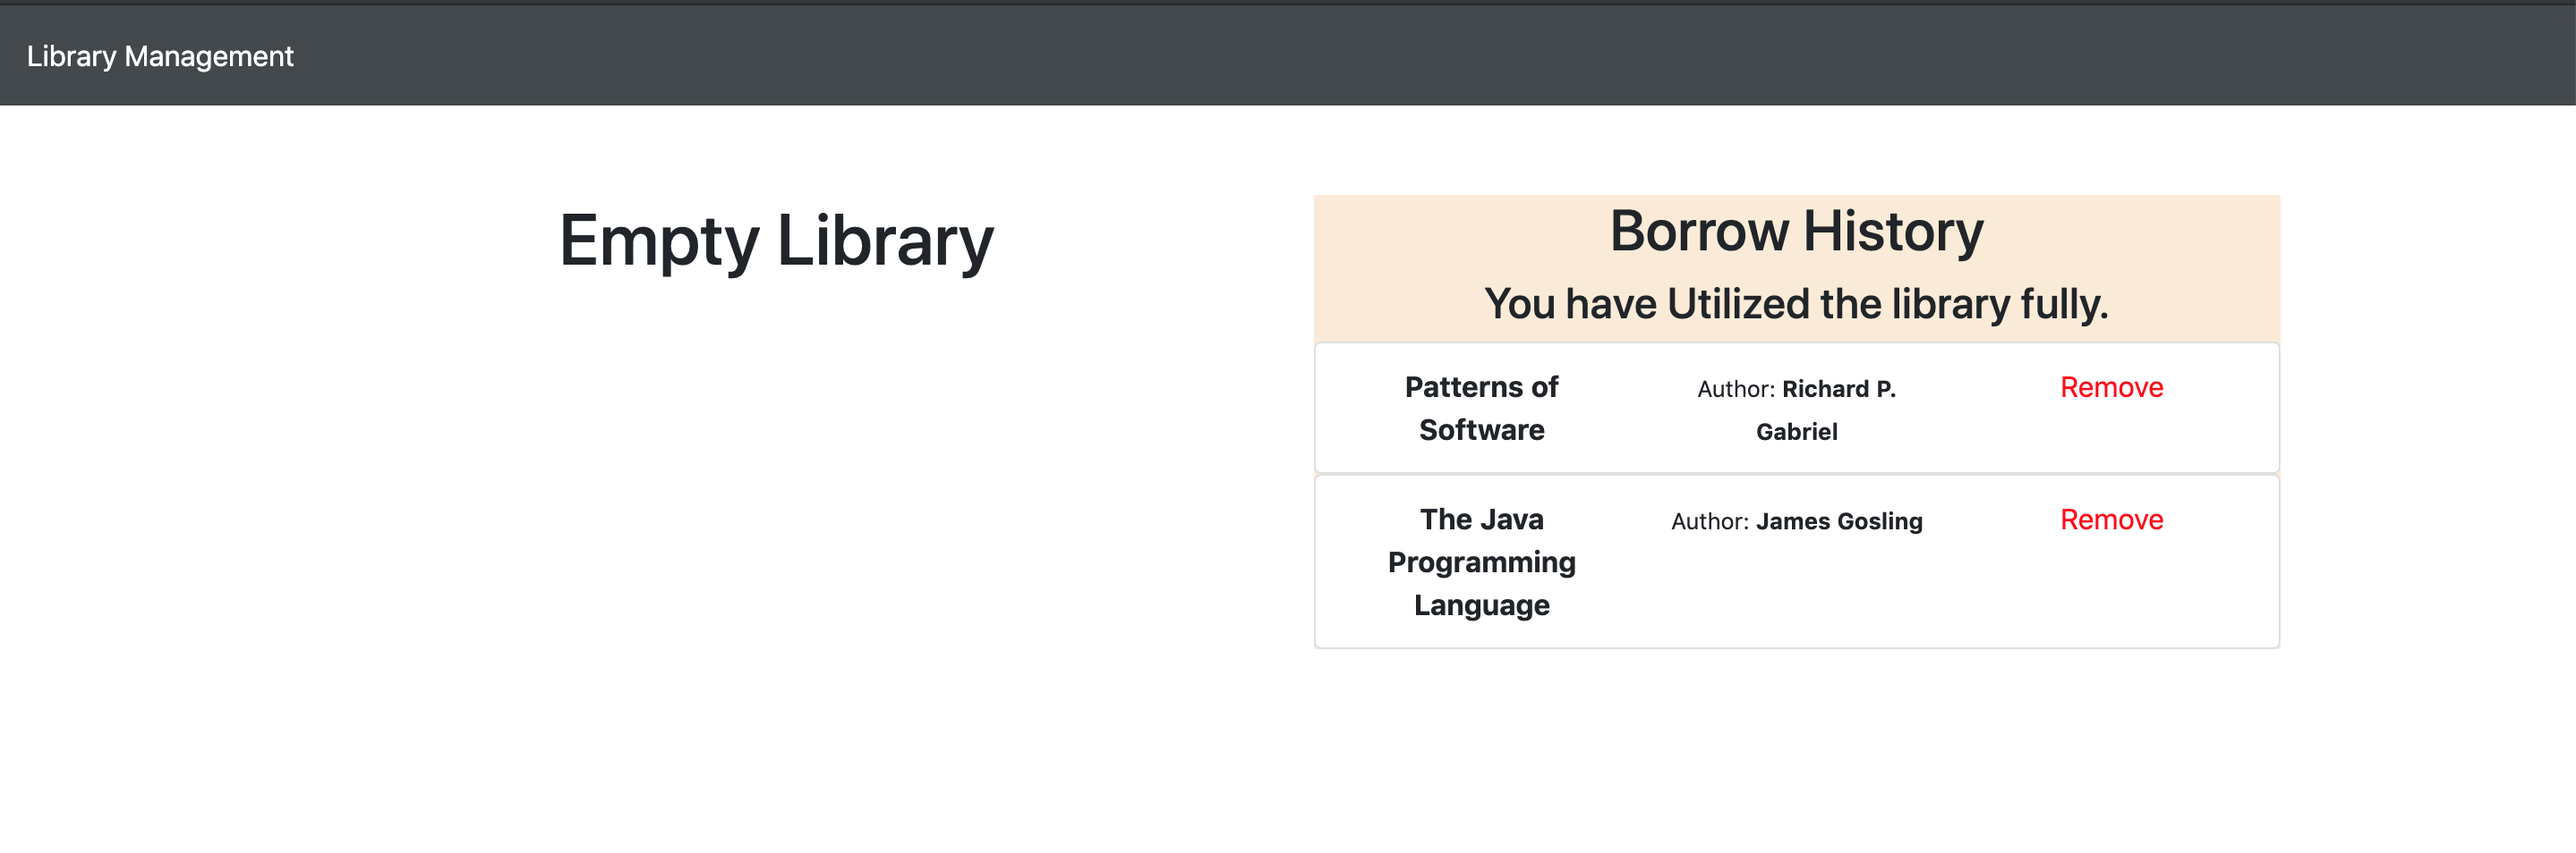
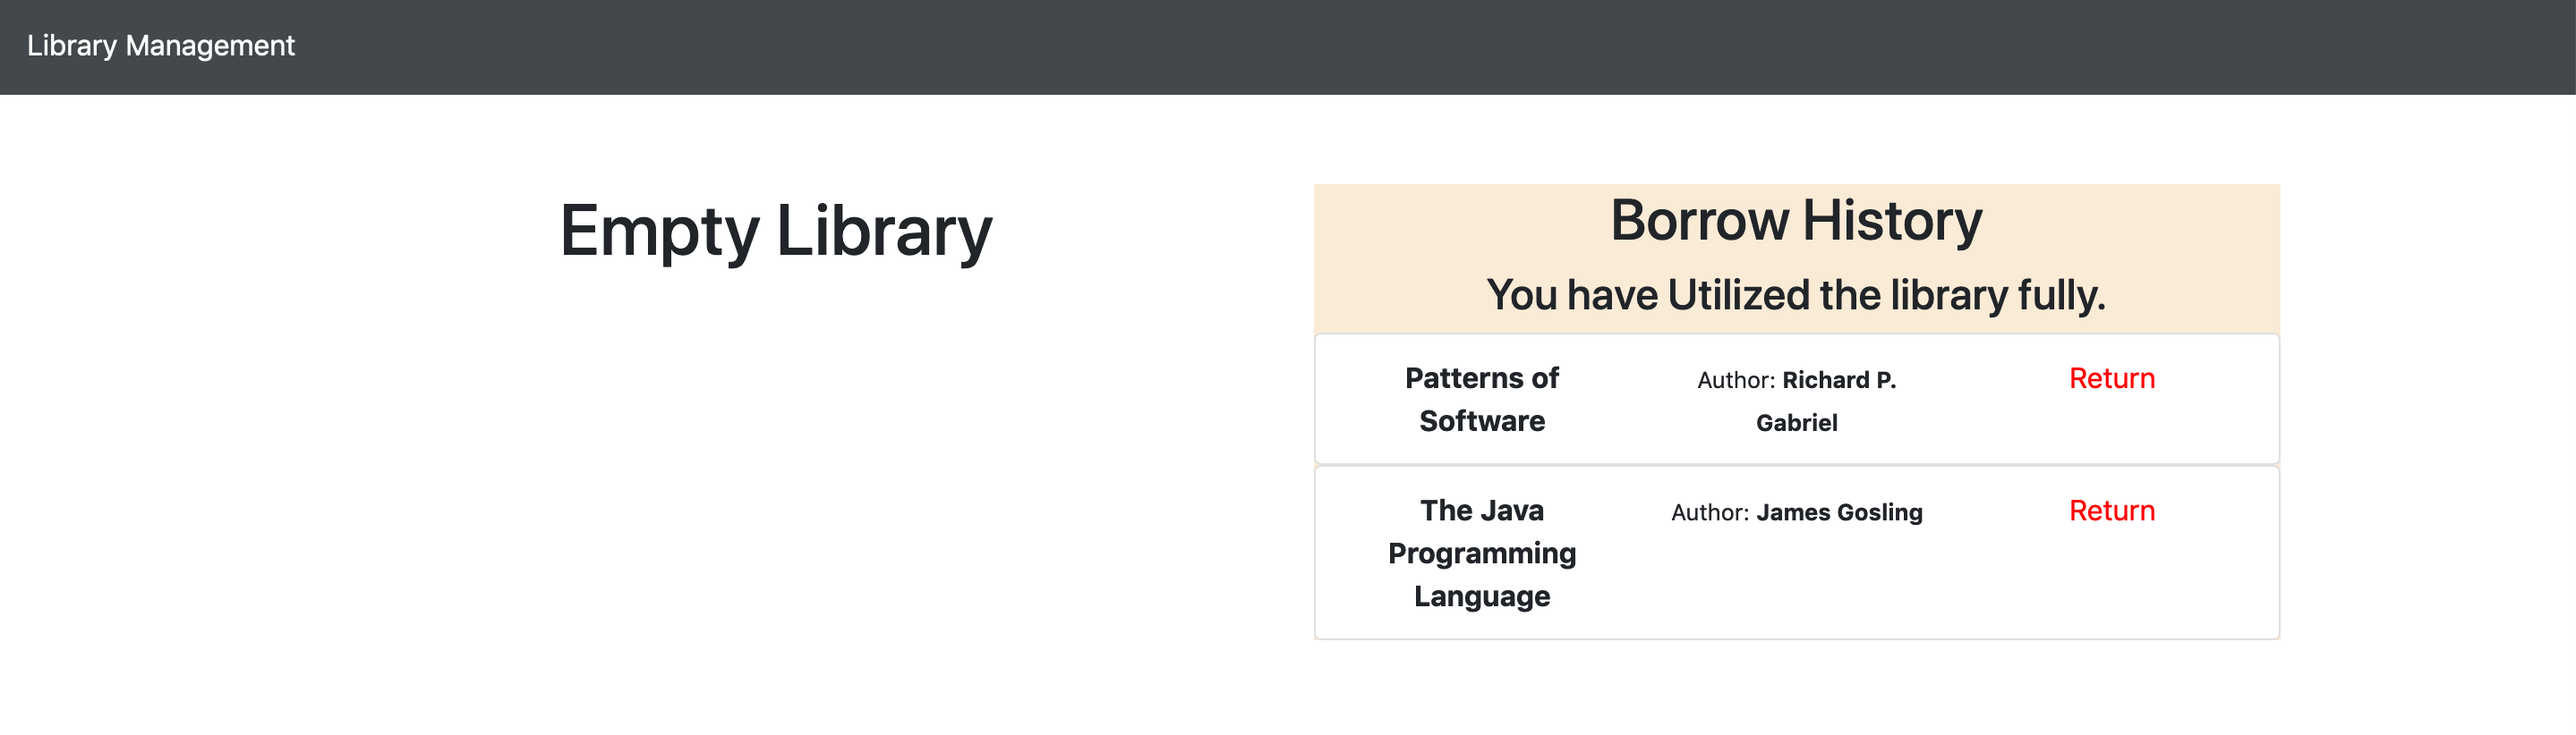
button text updated

diff --git a/src/common-components/items/BorrowHistory.js b/src/common-components/items/BorrowHistory.js
@@ -9,7 +9,7 @@ const BorrowHistory = ({ borrowHistory, removedFromBorrowedList }) => {
       <Row>
         <Col> <strong>{borrowHistory.name}</strong></Col>
         <Col><small> Author: <b>{borrowHistory.author}</b></small></Col>
-        <Col className="remove" onClick={e => removedFromBorrowedList('BORROWED_ITEM', borrowHistory)}> Remove</Col>
+        <Col className="remove" onClick={e => removedFromBorrowedList('BORROWED_ITEM', borrowHistory)}> Return</Col>
       </Row>
       </ListGroup.Item>
     </ListGroup>

diff --git a/src/common-components/items/Book.js b/src/common-components/items/Book.js
@@ -9,7 +9,7 @@ const Book = ({ book , addToBorrowedList}) => {
       <Row>
         <Col> <strong>{book.name}</strong> <small>(copies: {book.copies})</small></Col>
         <Col><small> Author: <b>{book.author}</b></small></Col>
-        {book.copies>0 && <Col className="add" onClick={e => addToBorrowedList('BOOK', book)}> Add</Col>}
+        {book.copies>0 && <Col className="add" onClick={e => addToBorrowedList('BOOK', book)}> Borrow</Col>}
       </Row>
       </ListGroup.Item>
     </ListGroup>
